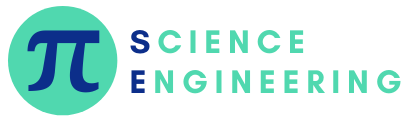
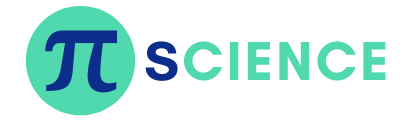
update name

Changed region(s): [[0.0, 0.05, 0.9641, 0.975]]

diff --git a/index.html b/index.html
@@ -3,7 +3,7 @@
 
 <head>
     <meta charset="utf-8">
-    <title>PiSE - Khơi Nguồn Sáng Tạo</title>
+    <title>PiScience - Khơi Nguồn Sáng Tạo</title>
     <meta content="width=device-width, initial-scale=1.0" name="viewport">
     <meta content="" name="keywords">
     <meta content="" name="description">
@@ -42,7 +42,7 @@
         <div class="container clearfix">
             <div class="contact-info float-left">
                 <i class="fa fa-envelope-o"></i> <a
-                    href="mailto:pise.edutek@gmail.com">pise.edutek@gmail.com</a>
+                    href="mailto:piscience.edutech@gmail.com">piscience.edutech@gmail.com</a>
                 <i class="fa fa-phone"></i> <a href="tel:+84981687998">+84 981 687 998</a>
             </div>
             <div class="social-links float-right">
@@ -98,8 +98,8 @@
 
         <div class="intro-content">
 
-            <h2><span>Pi</span>SE</h2>
-            <h3><span>Programming Intelligent</span> Science Engineering</h3>
+            <h2><span>Pi</span>Science</h2>
+            <h3><span>Programming Intelligent</span> Science</h3>
             <h4>Khơi Nguồn Sáng Tạo</h4>
             <h4>Trở Thành Nhà Khoa Học Tương Lai</h4>
             <!-- <b>Programming Intelligent - Science Engineering</b> -->
@@ -648,7 +648,7 @@
                         <div class="contact-email">
                             <i class="ion-ios-email-outline"></i>
                             <h3>Email</h3>
-                            <p><a href="mailto:pise.edutek@gmail.com">pise.edutek@gmail.com</a></p>
+                            <p><a href="mailto:piscience.edutech@gmail.com">piscience.edutech@gmail.com</a></p>
                         </div>
                     </div>
 
@@ -666,7 +666,7 @@
     <footer id="footer">
         <div class="container">
             <div class="copyright">
-                &copy; Copyright <strong>PiSE</strong>. All Rights Reserved
+                &copy; Copyright <strong>PiScience</strong>. All Rights Reserved
             </div>
             
             <div class="credits">
